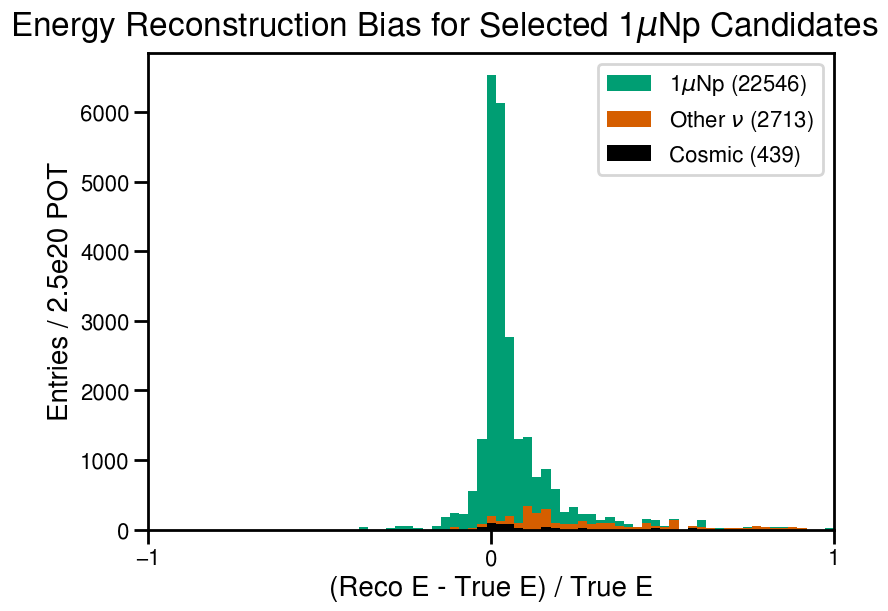
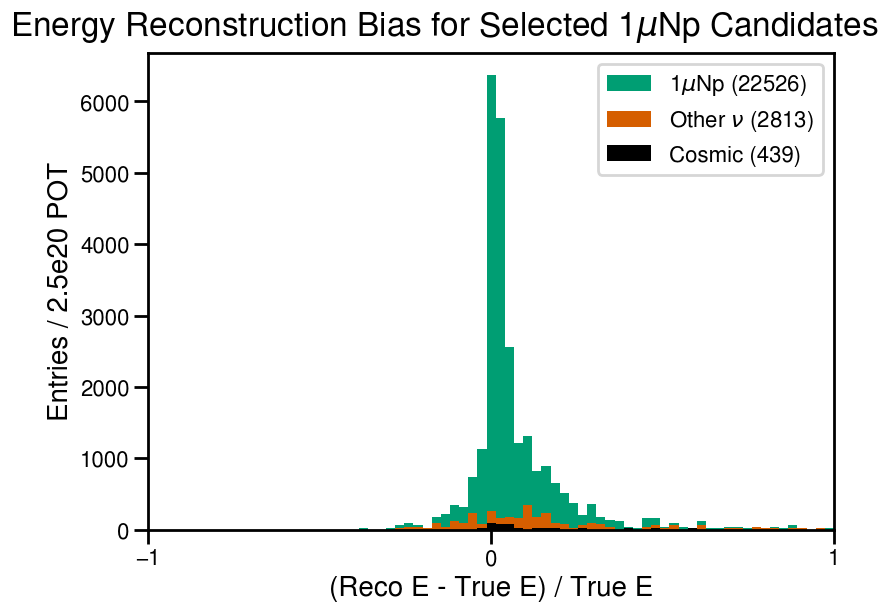
Update interaction energy reconstruction to account for pion mass

diff --git a/include/variables.h b/include/variables.h
@@ -6,6 +6,10 @@
 #ifndef VARIABLES_H
 #define VARIABLES_H
 
+#define MUON_MASS 105.6583745
+#define PION_MASS 139.57039
+#define PROTON_MASS 938.2720813
+
 #include <algorithm>
 
 namespace vars
@@ -141,23 +145,19 @@ namespace vars
             double energy(0);
             for(const auto & p : interaction.particles)
             {
-                if constexpr (std::is_same_v<T, caf::SRInteractionTruthDLPProxy>)
+                if(p.is_primary)
                 {
-                    if(p.is_primary)
+                    if constexpr (std::is_same_v<T, caf::SRInteractionTruthDLPProxy>)
                     {
                         energy += p.energy_deposit;
-                        if(p.pid == 2) energy += 105.658;
                     }
-                }
-                else
-                {
-                    if(p.is_primary && p.pid < 2)
-                        energy += p.calo_ke;
-                    else if(p.is_primary)
+                    else
                     {
-                        energy += p.csda_ke;
-                        if(p.pid == 2) energy += 105.658;
+                        if(p.pid < 2) energy += p.calo_ke;
+                        else energy += p.csda_ke;
                     }
+                    if(p.pid == 2) energy += MUON_MASS;
+                    else if(p.pid == 3) energy += PION_MASS;
                 }
             }
             return energy;
